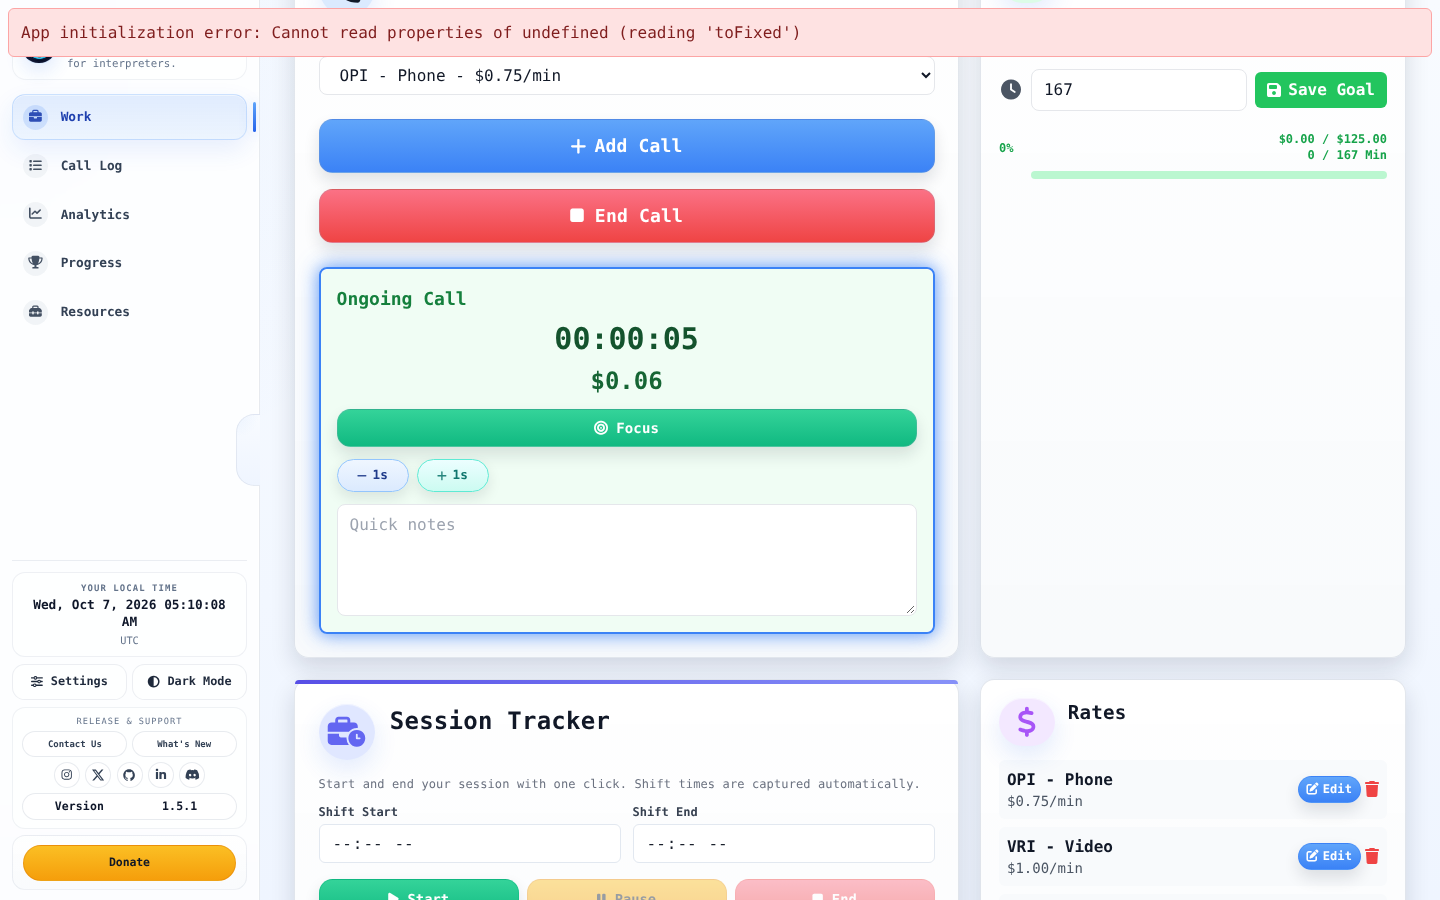
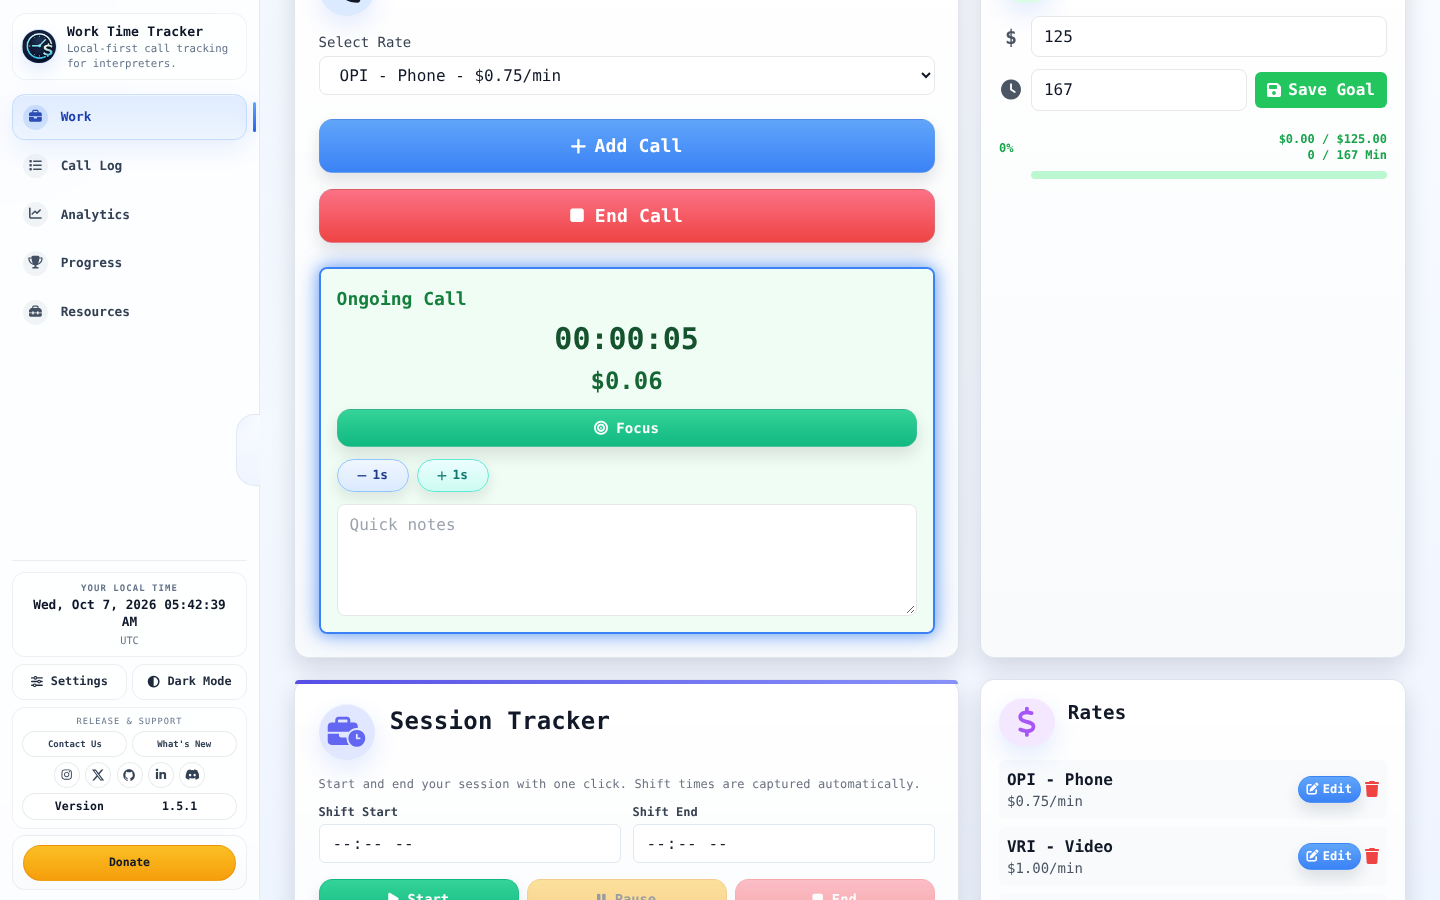
Fix Focus Mode ring text fit and Call Log earnings crash
- Ring text now auto-fits: font shrinks whenever the timer or earnings
  would touch the ring, on any screen size (measured against the rendered
  SVG inner diameter every tick)
- Slightly smaller default timer font (54px) with nowrap
- Fix real Call Log crash: buildCallRow used call.earned directly, so any
  call without that field (e.g. imported CSV rows) threw
  'Cannot read properties of undefined (reading toFixed)' and surfaced as
  an app initialization error banner; it now uses getCallEarnings() with
  the full fallback chain
- formatEarnings is now defensive against non-finite values
- Retake Focus Mode screenshots without the error banner and with the
  fitted ring

Changed region(s): [[0.0, 0.0, 1.0, 0.0622], [0.125, 0.6533, 0.1562, 0.6844]]

diff --git a/assets/js/app.js b/assets/js/app.js
@@ -2162,6 +2162,22 @@ function syncFocusModeOverlay() {
         const timerEl = overlay.querySelector('#wtt-focus-timer');
         if (timerEl) timerEl.textContent = formatTime(Math.max(0, Date.now() - liveCallStart));
     }
+    // Auto-ajuste: el texto debe caber dentro del anillo en cualquier pantalla
+    const fitEnAnillo = (el, basePx) => {
+        if (!el) return;
+        const svg = overlay.querySelector('.wtt-focus-ringwrap svg');
+        if (!svg) return;
+        el.style.fontSize = '';
+        const escala = svg.getBoundingClientRect().width / 360 || 1;
+        const diametroInterior = 2 * (FOCUS_RING_RADIUS - 8) * escala;
+        const maxW = diametroInterior - 24 * escala;
+        const ancho = el.scrollWidth;
+        if (ancho > maxW && ancho > 0) {
+            el.style.fontSize = Math.max(26, Math.floor(basePx * maxW / ancho)) + 'px';
+        }
+    };
+    fitEnAnillo(overlay.querySelector('#wtt-focus-timer'), 54);
+    fitEnAnillo(overlay.querySelector('#wtt-focus-earnings'), 34);
     const earningsEl = overlay.querySelector('#wtt-focus-earnings');
     if (earningsEl) earningsEl.textContent = formatEarnings(getFocusLiveEarnings());
     const rateEl = overlay.querySelector('#wtt-focus-rate');
@@ -3781,7 +3797,8 @@ if (storedDailyGoal) {
     }
 
     function formatEarnings(amount) {
-        return `$${amount.toFixed(2)}`;
+        const value = Number(amount);
+        return `$${(Number.isFinite(value) ? value : 0).toFixed(2)}`;
     }
 
     function normalizeTrendMode(mode) {
@@ -7176,7 +7193,7 @@ function migrateLegacyRpgCallEligibility() {
         const startDisplay = startDate.toLocaleString(DISPLAY_LOCALE, { timeZone: userTz });
         const endDisplay = endDate.toLocaleString(DISPLAY_LOCALE, { timeZone: userTz });
         const durationStr = formatTime(call.duration);
-        const earningsStr = formatEarnings(call.earned);
+        const earningsStr = formatEarnings(getCallEarnings(call));
         const noteCellHtml = getCallNoteCellHtml(call.notes);
 
         let safeRateName = escapeHTML(call.rateName || '');

diff --git a/assets/css/styles.css b/assets/css/styles.css
@@ -10992,13 +10992,14 @@ html.dark .payment-cycles-manager-panel {
 }
 
 .wtt-focus-timer {
-    font-size: 62px;
+    font-size: 54px;
     line-height: 1;
     font-weight: 700;
     letter-spacing: 0.01em;
     font-variant-numeric: tabular-nums;
     color: #0f172a;
     font-family: ui-monospace, SFMono-Regular, Menlo, Consolas, monospace;
+    white-space: nowrap;
 }
 
 .wtt-focus-earnings {
